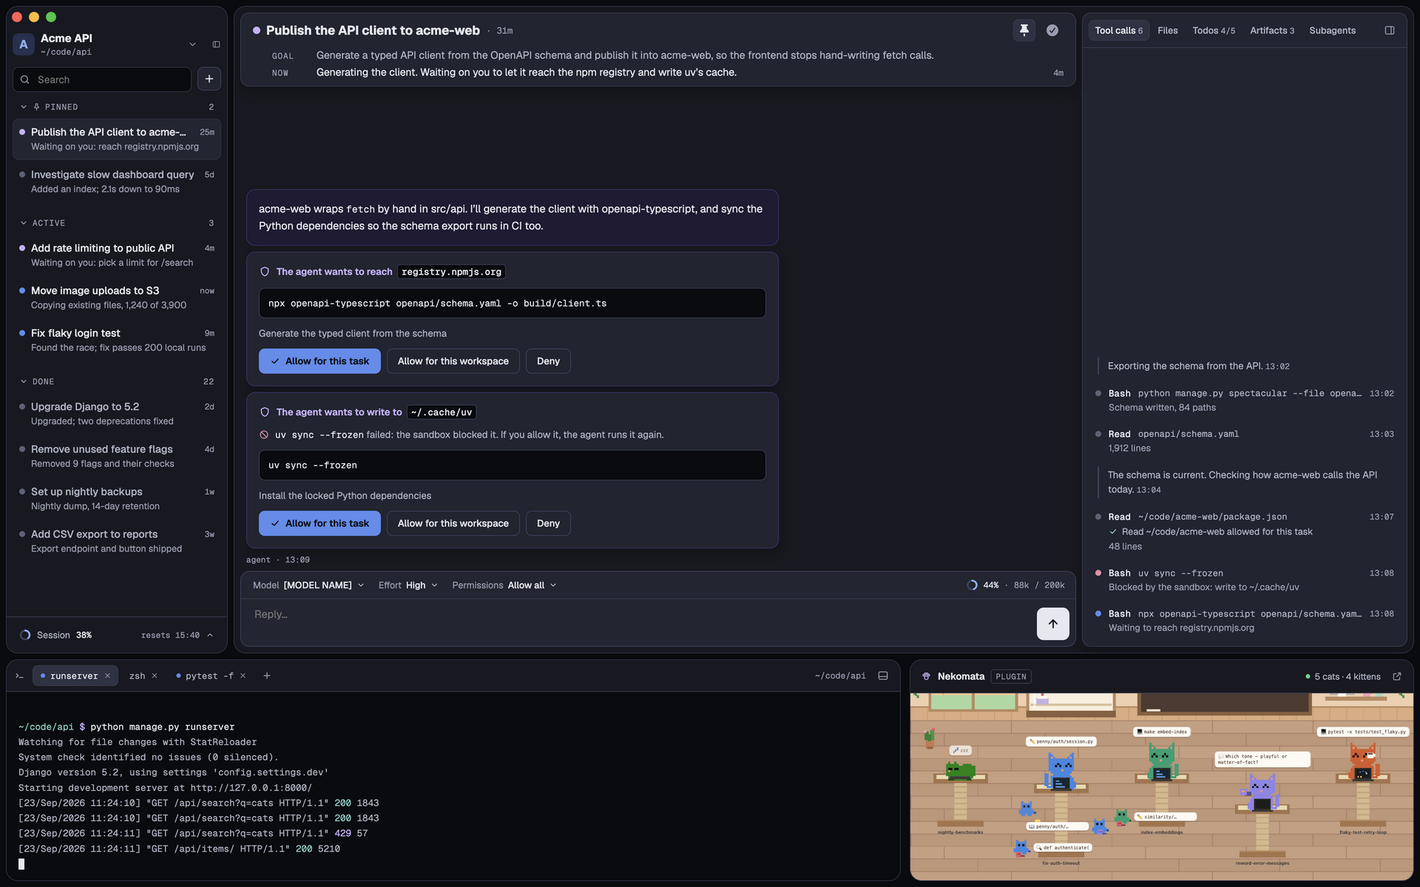
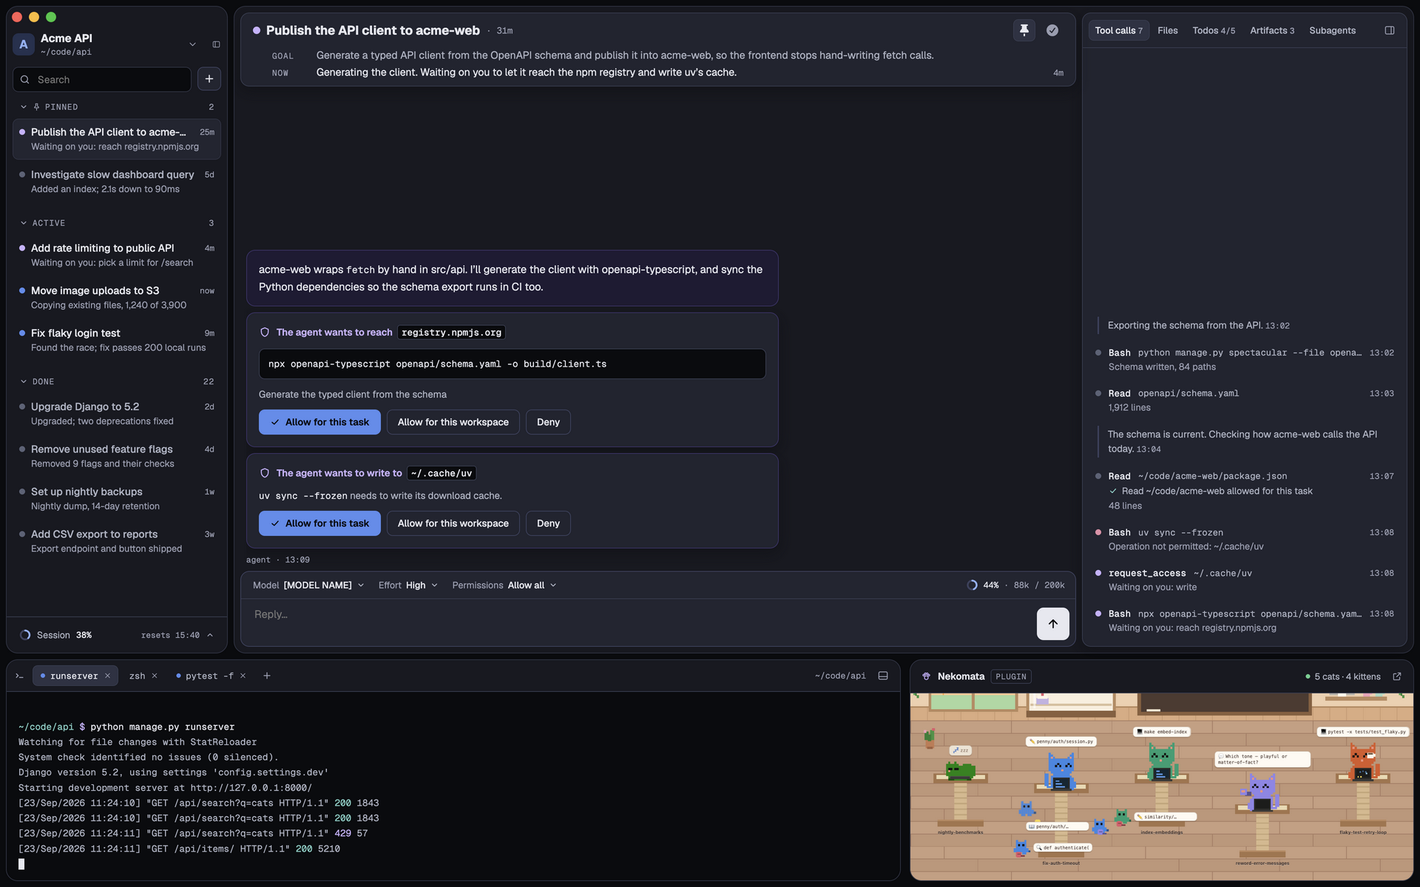
P15-02: open the blocked command's folder card from request_access
The SDK probe showed Glade can't see a command the sandbox blocked. The
agent calls Glade's request_access tool instead (path, read or write, a
short reason), which opens the usual folder card with the agent's reason.
Screen 43 drops the after-the-fact notice; 43 and 44 show the failed
Bash row and the request_access row in the Tool calls list.

Changed region(s): [[0.1562, 0.2158, 0.5625, 0.5858], [0.7812, 0.3392, 0.9688, 0.6783]]

diff --git a/docs/design/html/43-sandbox-domain-card.html b/docs/design/html/43-sandbox-domain-card.html
@@ -2,7 +2,7 @@
 <html lang="en">
 <head>
 <meta charset="utf-8">
-<title>Sandbox permission card · domain and blocked command</title>
+<title>Sandbox permission card · domain and folder request</title>
 <script src="./support.js"></script>
 </head>
 <body>
@@ -117,9 +117,7 @@ a{color:#8FB2F5}a:hover{color:#B5CBF8}
 </div>
 <div role="form" aria-label="Permission request" style="display: flex; flex-direction: column; gap: 12px; padding: 16px; background: #222430; border: 1px solid #3B3366; border-radius: 12px; box-shadow: 0 6px 20px rgba(0,0,0,0.25)">
 <div style="display: flex; align-items: center; gap: 8px; color: #C8B2FF; font-size: 13px; font-weight: 600"><svg width="16" height="16" viewBox="0 0 24 24" fill="none" stroke="currentColor" stroke-width="2" stroke-linecap="round" stroke-linejoin="round"><path d="M12 3 5 6v5c0 4.4 3 8.3 7 9.5 4-1.2 7-5.1 7-9.5V6z"></path></svg><span style="display: flex; align-items: center; gap: 6px; flex-wrap: wrap">The agent wants to write to<code style="font-family: 'Geist Mono', ui-monospace, monospace; font-size: 12.5px; font-weight: 500; padding: 1px 5px; background: #0A0B0F; border: 1px solid #373C4F; border-radius: 4px; color: #E6E8F0">~/.cache/uv</code></span></div>
-<div style="display: flex; align-items: center; gap: 8px; font-size: 13px; color: #AEB3C3"><span style="display: flex; color: #E58FA8"><svg width="14" height="14" viewBox="0 0 24 24" fill="none" stroke="currentColor" stroke-width="2" stroke-linecap="round" stroke-linejoin="round"><circle cx="12" cy="12" r="8.5"></circle><path d="M6 6l12 12"></path></svg></span><span><code style="font-family: 'Geist Mono', ui-monospace, monospace; font-size: 12.5px; color: #E6E8F0">uv sync --frozen</code> failed: the sandbox blocked it. If you allow it, the agent runs it again.</span></div>
-<pre aria-label="Command" style="margin: 0; padding: 10px 12px; background: #0A0B0F; border: 1px solid #373C4F; border-radius: 8px; font-family: 'Geist Mono', ui-monospace, monospace; font-size: 12.5px; line-height: 1.55; color: #E6E8F0; white-space: pre-wrap; overflow-wrap: anywhere">uv sync --frozen</pre>
-<div style="font-size: 13px; color: #AEB3C3">Install the locked Python dependencies</div>
+<div style="font-size: 13px; color: #AEB3C3"><code style="font-family: 'Geist Mono', ui-monospace, monospace; font-size: 12.5px; color: #E6E8F0">uv sync --frozen</code> needs to write its download cache.</div>
 <div role="group" aria-label="Answer" style="display: flex; align-items: center; gap: 8px"><button type="button" style="display: flex; align-items: center; justify-content: center; gap: 7px; height: 34px; padding: 0 14px; border-radius: 8px; font: inherit; font-size: 13px; cursor: pointer; white-space: nowrap; background: #5B8DEF; color: #0A0B0F; border: 1px solid #5B8DEF; font-weight: 600"><svg width="14" height="14" viewBox="0 0 24 24" fill="none" stroke="currentColor" stroke-width="2.4" stroke-linecap="round" stroke-linejoin="round"><path d="M5 12.5 10 17l9-10"></path></svg>Allow for this task</button><button type="button" style="display: flex; align-items: center; justify-content: center; gap: 7px; height: 34px; padding: 0 14px; border-radius: 8px; font: inherit; font-size: 13px; cursor: pointer; white-space: nowrap; background: transparent; color: #E6E8F0; border: 1px solid #3D425E; font-weight: 500">Allow for this workspace</button><button type="button" style="display: flex; align-items: center; justify-content: center; gap: 7px; height: 34px; padding: 0 14px; border-radius: 8px; font: inherit; font-size: 13px; cursor: pointer; white-space: nowrap; background: transparent; color: #E6E8F0; border: 1px solid #3D425E; font-weight: 500">Deny</button></div>
 </div>
 <span style="font-family: 'Geist Mono', ui-monospace, monospace; font-size: 11px; color: #999DB0">agent · 13:09</span>
@@ -143,7 +141,7 @@ a{color:#8FB2F5}a:hover{color:#B5CBF8}
 </div>
 <aside style="flex-shrink: 0; width: 440px; box-sizing: border-box; background: #222430; border: 1px solid #373C4F; border-radius: 12px; box-shadow: 0 6px 20px rgba(0,0,0,0.25); overflow: hidden; display: flex; flex-direction: column">
 <div style="display: flex; align-items: center; gap: 2px; padding: 8px 8px; border-bottom: 1px solid #373C4F">
-<button type="button" aria-pressed="true" style="height: 28px; padding: 0 8px; background: #2E3243; color: #E6E8F0; border: 1px solid #373C4F; border-radius: 7px; font: inherit; font-size: 12.5px; font-weight: 500; cursor: pointer; white-space: nowrap">Tool calls <span style="font-family: 'Geist Mono', ui-monospace, monospace; font-size: 11px; color: #999DB0">6</span></button><button type="button" aria-pressed="false" style="height: 28px; padding: 0 8px; background: transparent; color: #AEB3C3; border: 1px solid transparent; border-radius: 7px; font: inherit; font-size: 12.5px; font-weight: 500; cursor: pointer; white-space: nowrap">Files</button><button type="button" aria-pressed="false" style="height: 28px; padding: 0 8px; background: transparent; color: #AEB3C3; border: 1px solid transparent; border-radius: 7px; font: inherit; font-size: 12.5px; font-weight: 500; cursor: pointer; white-space: nowrap">Todos <span style="font-family: 'Geist Mono', ui-monospace, monospace; font-size: 11px; color: #999DB0">4/5</span></button><button type="button" aria-pressed="false" style="height: 28px; padding: 0 8px; background: transparent; color: #AEB3C3; border: 1px solid transparent; border-radius: 7px; font: inherit; font-size: 12.5px; font-weight: 500; cursor: pointer; white-space: nowrap">Artifacts <span style="font-family: 'Geist Mono', ui-monospace, monospace; font-size: 11px; color: #999DB0">3</span></button><button type="button" aria-pressed="false" style="height: 28px; padding: 0 8px; background: transparent; color: #AEB3C3; border: 1px solid transparent; border-radius: 7px; font: inherit; font-size: 12.5px; font-weight: 500; cursor: pointer; white-space: nowrap">Subagents</button>
+<button type="button" aria-pressed="true" style="height: 28px; padding: 0 8px; background: #2E3243; color: #E6E8F0; border: 1px solid #373C4F; border-radius: 7px; font: inherit; font-size: 12.5px; font-weight: 500; cursor: pointer; white-space: nowrap">Tool calls <span style="font-family: 'Geist Mono', ui-monospace, monospace; font-size: 11px; color: #999DB0">7</span></button><button type="button" aria-pressed="false" style="height: 28px; padding: 0 8px; background: transparent; color: #AEB3C3; border: 1px solid transparent; border-radius: 7px; font: inherit; font-size: 12.5px; font-weight: 500; cursor: pointer; white-space: nowrap">Files</button><button type="button" aria-pressed="false" style="height: 28px; padding: 0 8px; background: transparent; color: #AEB3C3; border: 1px solid transparent; border-radius: 7px; font: inherit; font-size: 12.5px; font-weight: 500; cursor: pointer; white-space: nowrap">Todos <span style="font-family: 'Geist Mono', ui-monospace, monospace; font-size: 11px; color: #999DB0">4/5</span></button><button type="button" aria-pressed="false" style="height: 28px; padding: 0 8px; background: transparent; color: #AEB3C3; border: 1px solid transparent; border-radius: 7px; font: inherit; font-size: 12.5px; font-weight: 500; cursor: pointer; white-space: nowrap">Artifacts <span style="font-family: 'Geist Mono', ui-monospace, monospace; font-size: 11px; color: #999DB0">3</span></button><button type="button" aria-pressed="false" style="height: 28px; padding: 0 8px; background: transparent; color: #AEB3C3; border: 1px solid transparent; border-radius: 7px; font: inherit; font-size: 12.5px; font-weight: 500; cursor: pointer; white-space: nowrap">Subagents</button>
 <span style="flex-grow: 1"></span><button type="button" aria-label="Collapse side panel" title="Collapse side panel" style="flex-shrink: 0; display: flex; align-items: center; justify-content: center; width: 30px; height: 30px; background: transparent; border: 0; border-radius: 7px; color: #999DB0; cursor: pointer"><svg width="16" height="16" viewBox="0 0 24 24" fill="none" stroke="currentColor" stroke-width="1.8" stroke-linecap="round" stroke-linejoin="round"><rect x="3.5" y="4.5" width="17" height="15" rx="2.5"></rect><path d="M15 4.5v15"></path></svg></button>
 </div>
 <div style="flex-grow: 1; overflow: hidden; padding: 8px; display: flex; flex-direction: column; justify-content: flex-end; gap: 2px">
@@ -187,17 +185,27 @@ a{color:#8FB2F5}a:hover{color:#B5CBF8}
 <span style="flex-grow: 1; min-width: 0; font-family: 'Geist Mono', ui-monospace, monospace; font-size: 12px; color: #AEB3C3; white-space: nowrap; overflow: hidden; text-overflow: ellipsis">uv sync --frozen</span>
 <span style="font-family: 'Geist Mono', ui-monospace, monospace; font-size: 11px; color: #999DB0">13:08</span>
 </div>
-<div style="padding-left: 18px; margin-top: 3px; font-size: 12.5px; color: #999DB0">Blocked by the sandbox: write to ~/.cache/uv</div>
+<div style="padding-left: 18px; margin-top: 3px; font-size: 12.5px; color: #999DB0">Operation not permitted: ~/.cache/uv</div>
 
 </div>
 <div style="flex-shrink: 0; padding: 8px; background: transparent; border: 1px solid transparent; border-radius: 8px">
 <div style="display: flex; align-items: center; gap: 10px">
-<span style="flex-shrink: 0; width: 8px; height: 8px; border-radius: 4px; background: #5B8DEF"></span>
+<span style="flex-shrink: 0; width: 8px; height: 8px; border-radius: 4px; background: #C8B2FF"></span>
+<span style="font-family: 'Geist Mono', ui-monospace, monospace; font-size: 12.5px; font-weight: 500; color: #E6E8F0">request_access</span>
+<span style="flex-grow: 1; min-width: 0; font-family: 'Geist Mono', ui-monospace, monospace; font-size: 12px; color: #AEB3C3; white-space: nowrap; overflow: hidden; text-overflow: ellipsis">~/.cache/uv</span>
+<span style="font-family: 'Geist Mono', ui-monospace, monospace; font-size: 11px; color: #999DB0">13:08</span>
+</div>
+<div style="padding-left: 18px; margin-top: 3px; font-size: 12.5px; color: #999DB0">Waiting on you: write</div>
+
+</div>
+<div style="flex-shrink: 0; padding: 8px; background: transparent; border: 1px solid transparent; border-radius: 8px">
+<div style="display: flex; align-items: center; gap: 10px">
+<span style="flex-shrink: 0; width: 8px; height: 8px; border-radius: 4px; background: #C8B2FF"></span>
 <span style="font-family: 'Geist Mono', ui-monospace, monospace; font-size: 12.5px; font-weight: 500; color: #E6E8F0">Bash</span>
 <span style="flex-grow: 1; min-width: 0; font-family: 'Geist Mono', ui-monospace, monospace; font-size: 12px; color: #AEB3C3; white-space: nowrap; overflow: hidden; text-overflow: ellipsis">npx openapi-typescript openapi/schema.yaml -o build/client.ts</span>
 <span style="font-family: 'Geist Mono', ui-monospace, monospace; font-size: 11px; color: #999DB0">13:08</span>
 </div>
-<div style="padding-left: 18px; margin-top: 3px; font-size: 12.5px; color: #999DB0">Waiting to reach registry.npmjs.org</div>
+<div style="padding-left: 18px; margin-top: 3px; font-size: 12.5px; color: #999DB0">Waiting on you: reach registry.npmjs.org</div>
 
 </div>
 </div>

diff --git a/docs/design/html/44-sandbox-outside-card.html b/docs/design/html/44-sandbox-outside-card.html
@@ -108,7 +108,7 @@ a{color:#8FB2F5}a:hover{color:#B5CBF8}
 <main style="position: relative; flex-grow: 1; min-height: 0; min-width: 0; display: flex; flex-direction: column">
 <div style="flex-grow: 1; min-height: 0; overflow: hidden; margin: 60px 8px 51px 8px; padding: 77px 0 60px 0; display: flex; flex-direction: column; justify-content: flex-end; gap: 16px">
 <div style="flex-shrink: 0; display: flex; flex-direction: column; gap: 8px; max-width: 720px">
-<div style="display: flex; flex-direction: column; gap: 10px; padding: 14px 16px; background: #1E1B33; border: 1px solid #3B3366; border-radius: 12px; font-size: 14.5px; line-height: 1.6; color: #E6E8F0"><p style="margin: 0">npx needs the npm registry, so it’s waiting on you. uv sync was blocked writing its cache; it can run again if you allow it.</p></div>
+<div style="display: flex; flex-direction: column; gap: 10px; padding: 14px 16px; background: #1E1B33; border: 1px solid #3B3366; border-radius: 12px; font-size: 14.5px; line-height: 1.6; color: #E6E8F0"><p style="margin: 0">npx needs the npm registry, so it’s waiting on you. uv sync can’t write its download cache, so I’ve asked for ~/.cache/uv.</p></div>
 <span style="font-family: 'Geist Mono', ui-monospace, monospace; font-size: 11px; color: #999DB0">agent · 13:09</span>
 </div>
 <div style="flex-shrink: 0; display: flex; flex-direction: column; align-items: flex-end; gap: 4px">
@@ -149,7 +149,7 @@ a{color:#8FB2F5}a:hover{color:#B5CBF8}
 </div>
 <aside style="flex-shrink: 0; width: 440px; box-sizing: border-box; background: #222430; border: 1px solid #373C4F; border-radius: 12px; box-shadow: 0 6px 20px rgba(0,0,0,0.25); overflow: hidden; display: flex; flex-direction: column">
 <div style="display: flex; align-items: center; gap: 2px; padding: 8px 8px; border-bottom: 1px solid #373C4F">
-<button type="button" aria-pressed="true" style="height: 28px; padding: 0 8px; background: #2E3243; color: #E6E8F0; border: 1px solid #373C4F; border-radius: 7px; font: inherit; font-size: 12.5px; font-weight: 500; cursor: pointer; white-space: nowrap">Tool calls <span style="font-family: 'Geist Mono', ui-monospace, monospace; font-size: 11px; color: #999DB0">11</span></button><button type="button" aria-pressed="false" style="height: 28px; padding: 0 8px; background: transparent; color: #AEB3C3; border: 1px solid transparent; border-radius: 7px; font: inherit; font-size: 12.5px; font-weight: 500; cursor: pointer; white-space: nowrap">Files</button><button type="button" aria-pressed="false" style="height: 28px; padding: 0 8px; background: transparent; color: #AEB3C3; border: 1px solid transparent; border-radius: 7px; font: inherit; font-size: 12.5px; font-weight: 500; cursor: pointer; white-space: nowrap">Todos <span style="font-family: 'Geist Mono', ui-monospace, monospace; font-size: 11px; color: #999DB0">4/5</span></button><button type="button" aria-pressed="false" style="height: 28px; padding: 0 8px; background: transparent; color: #AEB3C3; border: 1px solid transparent; border-radius: 7px; font: inherit; font-size: 12.5px; font-weight: 500; cursor: pointer; white-space: nowrap">Artifacts <span style="font-family: 'Geist Mono', ui-monospace, monospace; font-size: 11px; color: #999DB0">3</span></button><button type="button" aria-pressed="false" style="height: 28px; padding: 0 8px; background: transparent; color: #AEB3C3; border: 1px solid transparent; border-radius: 7px; font: inherit; font-size: 12.5px; font-weight: 500; cursor: pointer; white-space: nowrap">Subagents</button>
+<button type="button" aria-pressed="true" style="height: 28px; padding: 0 8px; background: #2E3243; color: #E6E8F0; border: 1px solid #373C4F; border-radius: 7px; font: inherit; font-size: 12.5px; font-weight: 500; cursor: pointer; white-space: nowrap">Tool calls <span style="font-family: 'Geist Mono', ui-monospace, monospace; font-size: 11px; color: #999DB0">12</span></button><button type="button" aria-pressed="false" style="height: 28px; padding: 0 8px; background: transparent; color: #AEB3C3; border: 1px solid transparent; border-radius: 7px; font: inherit; font-size: 12.5px; font-weight: 500; cursor: pointer; white-space: nowrap">Files</button><button type="button" aria-pressed="false" style="height: 28px; padding: 0 8px; background: transparent; color: #AEB3C3; border: 1px solid transparent; border-radius: 7px; font: inherit; font-size: 12.5px; font-weight: 500; cursor: pointer; white-space: nowrap">Todos <span style="font-family: 'Geist Mono', ui-monospace, monospace; font-size: 11px; color: #999DB0">4/5</span></button><button type="button" aria-pressed="false" style="height: 28px; padding: 0 8px; background: transparent; color: #AEB3C3; border: 1px solid transparent; border-radius: 7px; font: inherit; font-size: 12.5px; font-weight: 500; cursor: pointer; white-space: nowrap">Artifacts <span style="font-family: 'Geist Mono', ui-monospace, monospace; font-size: 11px; color: #999DB0">3</span></button><button type="button" aria-pressed="false" style="height: 28px; padding: 0 8px; background: transparent; color: #AEB3C3; border: 1px solid transparent; border-radius: 7px; font: inherit; font-size: 12.5px; font-weight: 500; cursor: pointer; white-space: nowrap">Subagents</button>
 <span style="flex-grow: 1"></span><button type="button" aria-label="Collapse side panel" title="Collapse side panel" style="flex-shrink: 0; display: flex; align-items: center; justify-content: center; width: 30px; height: 30px; background: transparent; border: 0; border-radius: 7px; color: #999DB0; cursor: pointer"><svg width="16" height="16" viewBox="0 0 24 24" fill="none" stroke="currentColor" stroke-width="1.8" stroke-linecap="round" stroke-linejoin="round"><rect x="3.5" y="4.5" width="17" height="15" rx="2.5"></rect><path d="M15 4.5v15"></path></svg></button>
 </div>
 <div style="flex-grow: 1; overflow: hidden; padding: 8px; display: flex; flex-direction: column; justify-content: flex-end; gap: 2px">
@@ -172,8 +172,17 @@ a{color:#8FB2F5}a:hover{color:#B5CBF8}
 <span style="flex-grow: 1; min-width: 0; font-family: 'Geist Mono', ui-monospace, monospace; font-size: 12px; color: #AEB3C3; white-space: nowrap; overflow: hidden; text-overflow: ellipsis">uv sync --frozen</span>
 <span style="font-family: 'Geist Mono', ui-monospace, monospace; font-size: 11px; color: #999DB0">13:08</span>
 </div>
+<div style="padding-left: 18px; margin-top: 3px; font-size: 12.5px; color: #999DB0">Operation not permitted: ~/.cache/uv</div>
+
+</div>
+<div style="flex-shrink: 0; padding: 8px; background: transparent; border: 1px solid transparent; border-radius: 8px">
+<div style="display: flex; align-items: center; gap: 10px">
+<span style="flex-shrink: 0; width: 8px; height: 8px; border-radius: 4px; background: #5C6378"></span>
+<span style="font-family: 'Geist Mono', ui-monospace, monospace; font-size: 12.5px; font-weight: 500; color: #E6E8F0">request_access</span>
+<span style="flex-grow: 1; min-width: 0; font-family: 'Geist Mono', ui-monospace, monospace; font-size: 12px; color: #AEB3C3; white-space: nowrap; overflow: hidden; text-overflow: ellipsis">~/.cache/uv</span>
+<span style="font-family: 'Geist Mono', ui-monospace, monospace; font-size: 11px; color: #999DB0">13:08</span>
+</div>
 <div aria-label="Permission" style="display: flex; align-items: flex-start; gap: 6px; padding-left: 18px; margin-top: 3px; font-size: 12.5px; line-height: 1.45; color: #AEB3C3"><span style="flex-shrink: 0; display: flex; margin-top: 3px; color: #999DB0"><svg width="12" height="12" viewBox="0 0 24 24" fill="none" stroke="currentColor" stroke-width="2.4" stroke-linecap="round" stroke-linejoin="round"><path d="M6 12h12"></path></svg></span><span style="min-width: 0">Write ~/.cache/uv withdrawn</span></div>
-<div style="padding-left: 18px; margin-top: 3px; font-size: 12.5px; color: #999DB0">Blocked by the sandbox: write to ~/.cache/uv</div>
 
 </div>
 <div style="flex-shrink: 0; padding: 8px; background: transparent; border: 1px solid transparent; border-radius: 8px">

diff --git a/docs/design/README.md b/docs/design/README.md
@@ -75,8 +75,8 @@ every agent reply sits on the purple card (the question highlight in `tokens.md`
 | 40 · Sandbox settings, states | The Sandbox group's other states (1600×1200): as it starts, both lists empty ("No folders yet.", "No domains yet."); the switch off, the lists dimmed and disabled (as Sound is under Notifications), with a line saying agents can use any folder and domain until it's back on, and a workspace's lists (41) dimmed and disabled the same way while it's off; adding a folder, once **Add…** has opened the macOS folder picker and a folder is chosen: a highlighted row with the folder, the same access select (Read-only to start), **Add** and **Cancel**; and adding a domain, a field in the same kind of row with **Add** and **Cancel**. Built from 39; no original design. | ![40 · Sandbox settings, states](screens/40-settings-sandbox-states.png) |
 | 41 · Settings › Workspace › Sandbox | Settings › Workspace (Acme API) with a Sandbox group under Name and Root folder (#447). **Folders**: the workspace root first (a Workspace root tag, Read-write, no remove button), then the granted folders, each with its access select (Read-only or Read-write) and remove ×. **Domains**: `github.com`, `api.stripe.com`. **Add…** on each, adding as in 40. The group's line says Allow for this workspace on a permission card adds here; task grants aren't listed. Built from 21 · Settings and 39–40; no original design. | ![41 · Settings › Workspace › Sandbox](screens/41-settings-workspace-sandbox.png) |
 | 42 · Sandbox card, folders | Allow all with the sandbox on (#447). The card for a folder outside the grants: "The agent wants to read `~/code/acme-web`", with the file the tool touched under it (`Read ~/code/acme-web/package.json`) and **Allow for this task** · **Allow for this workspace** · **Deny**. Under it, a subagent's "…write to `~/code/acme-web/src/api`", named at its top right as on 23 (subagent · Client generator), with Deny's optional note open. A read grants read-only access and a write grants read-write. Built from 23 · Permission card; no original design. | ![42 · Sandbox card, folders](screens/42-sandbox-folder-card.png) |
-| 43 · Sandbox card, domain and blocked command | The card for a domain: "The agent wants to reach `registry.npmjs.org`", with the command that's waiting on the connection and the same three answers. Under it, a command the sandbox already blocked. Its card comes after the command failed and says so ("`uv sync --frozen` failed: the sandbox blocked it. If you allow it, the agent runs it again."), then asks for the folder it needed ("…write to `~/.cache/uv`"). In the tool log, the blocked command's row is pink: "Blocked by the sandbox: write to ~/.cache/uv". The read allowed earlier isn't in the chat any more: its decision, "Read ~/code/acme-web allowed for this task", is on its Read row, as on 23. Built from 23 · Permission card; no original design. | ![43 · Sandbox card, domain and blocked command](screens/43-sandbox-domain-card.png) |
-| 44 · Sandbox card, outside the sandbox | A command that wants to run outside the sandbox. The card says "The agent wants to run a command outside the sandbox", adds that it can then use any folder and reach any domain, and shows the command and what it's for. It offers only **Allow once** · **Deny**, and asks every time, in either mode. The cards answered before it aren't in the chat, which has only your messages and the agent's (your message denying the install and skipping uv). Their decisions are on their calls' rows in the Tool calls list, each naming what was asked: "Read ~/code/acme-web allowed for this task", "Write ~/.cache/uv withdrawn" on the blocked `uv sync`, "Reach registry.npmjs.org denied: “…”" on the `npx` command that made the request, "Write ~/code/acme-web/src/api allowed for this workspace", and "Outside the sandbox allowed once" on `git push`. Built from 23 and 24 · Permissions picker; no original design. | ![44 · Sandbox card, outside the sandbox](screens/44-sandbox-outside-card.png) |
+| 43 · Sandbox card, domain and folder request | The card for a domain: "The agent wants to reach `registry.npmjs.org`", with the command that's waiting on the connection and the same three answers. Under it, a folder card the agent asked for itself. Glade can't see a command the sandbox blocked, so when `uv sync --frozen` fails with "Operation not permitted", the agent calls Glade's `request_access` tool (the path, read or write, and a short reason), which opens the usual folder card: "The agent wants to write to `~/.cache/uv`", with the agent's reason ("`uv sync --frozen` needs to write its download cache.") in place of a command, and Allow for this task · Allow for this workspace · Deny. In the Tool calls list, the Bash `uv sync --frozen` row is pink, "Operation not permitted: ~/.cache/uv", followed by the `request_access ~/.cache/uv` row and the `npx` row, both waiting on you (purple). The read allowed earlier isn't in the chat any more: its decision, "Read ~/code/acme-web allowed for this task", is on its Read row, as on 23. Built from 23 · Permission card; no original design. | ![43 · Sandbox card, domain and folder request](screens/43-sandbox-domain-card.png) |
+| 44 · Sandbox card, outside the sandbox | A command that wants to run outside the sandbox. The card says "The agent wants to run a command outside the sandbox", adds that it can then use any folder and reach any domain, and shows the command and what it's for. It offers only **Allow once** · **Deny**, and asks every time, in either mode. The cards answered before it aren't in the chat, which has only your messages and the agent's (your message denying the install and skipping uv). Their decisions are on their calls' rows in the Tool calls list, each naming what was asked: "Read ~/code/acme-web allowed for this task", "Write ~/.cache/uv withdrawn" on the `request_access` call made after `uv sync` failed, "Reach registry.npmjs.org denied: “…”" on the `npx` command that made the request, "Write ~/code/acme-web/src/api allowed for this workspace", and "Outside the sandbox allowed once" on `git push`. Built from 23 and 24 · Permissions picker; no original design. | ![44 · Sandbox card, outside the sandbox](screens/44-sandbox-outside-card.png) |
 | Interaction map | Every screen, state and action as a graph. | ![Interaction map](screens/interaction-map.png) |
 | Decisions | The decisions board. | ![Decisions](screens/decisions.png) |
 | Icon exploration | Variations of the chosen icon; W07 is the one. | ![Icon exploration](screens/icon-exploration.png) |
